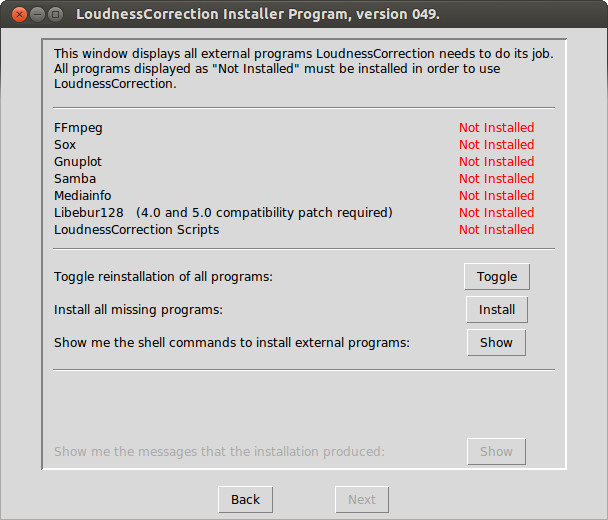
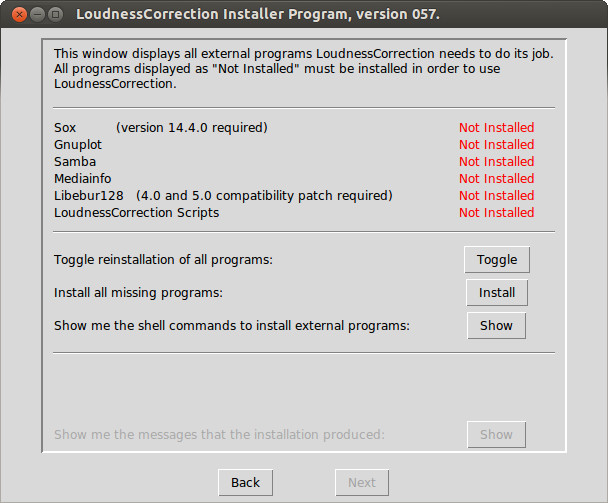
Documentation -------------- - Changed 4 installer pictures on user manual and made a small addition to the FAQ.

Changed region(s): [[0.0625, 0.2087, 0.9062, 0.7157], [0.0, 0.0, 0.9375, 0.1789], [0.0625, 0.835, 0.9375, 1.0]]

diff --git a/Documentation/FreeLCS_FAQ.html b/Documentation/FreeLCS_FAQ.html
@@ -133,15 +133,10 @@
     <ul>
       <li>Most audio post production is done in <strong>Wav</strong> format
         because it is very widely supported and can be used without paying
-        license fees for the use of the format (source:
-        <meta http-equiv="content-type" content="text/html; charset=utf-8">
-        <a href="http://www.digitalpreservation.gov/formats/fdd/fdd000025.shtml">http://www.digitalpreservation.gov/formats/fdd/fdd000025.shtml</a>,&nbsp;
-        <meta http-equiv="content-type" content="text/html; charset=utf-8">
+        license fees for the use of the format (source: <a href="http://www.digitalpreservation.gov/formats/fdd/fdd000025.shtml">http://www.digitalpreservation.gov/formats/fdd/fdd000025.shtml</a>,&nbsp;
         <a href="http://www.digitalpreservation.gov/formats/fdd/fdd000001.shtml">http://www.digitalpreservation.gov/formats/fdd/fdd000001.shtml</a>).
         FreeLCS supports wav and two royalty / patent free formats <strong>flac</strong>
-        and <strong>ogg </strong>(license:
-        <meta http-equiv="content-type" content="text/html; charset=utf-8">
-        <a href="http://flac.sourceforge.net/license.html">http://flac.sourceforge.net/license.html</a>).
+        and <strong>ogg </strong>(license: <a href="http://flac.sourceforge.net/license.html">http://flac.sourceforge.net/license.html</a>).
         If your post production is done in wav then you don't ever need to
         install FFmpeg.</li>
       <li>FFmpeg is a video and audio conversion tool that can be used to
@@ -181,7 +176,9 @@
         Stereo Mpeg 1 Layer 2 compressed audio from television
         transmission.&nbsp; The longest test files (with only 1 kHz sine wave)
         were 33 hours of Flac compressed 24 bit stereo audio and 388 hours of
-        ogg vorbis compresses stereo audio.<br>
+        ogg vorbis compresses stereo audio. The last one is 16 days of
+        continuous audio and the loudness corrected version was a 51 GB flac -
+        compressed file :)<br>
       </li>
     </ul>
     <br>

diff --git a/Documentation/FreeLCS_User_Manual.html b/Documentation/FreeLCS_User_Manual.html
@@ -441,7 +441,7 @@
         installation is going on. The installer shows messages on the bottom of
         the screen telling what it is doing at the moment.</li>
       <li>After all required programs are installed, the installer installs
-        FreeLCS programs into Ubuntu's system folders. <br>
+        FreeLCS scrips into Ubuntu's system folders. <br>
       </li>
     </ul>
     <p><br>
@@ -462,19 +462,28 @@
     <p><br>
     </p>
     <ul>
-      <li>The last window tells you that you can start loudness correction now
-        by typing the commands displayed in the window into a terminal window.
-        The easiest way to start loudness correction however is to restart the
-        computer.</li>
-      <li>Note that there is a deliberate delay for starting up loudness
-        correction and heartbeat checker after computer has booted up. This
-        makes sure all needed system services are up when our scripts run.<br>
-      </li>
+      <li>The next window shows how you can install FFmpeg if you need it.</li>
     </ul>
     <p><br>
     </p>
+    <p></p>
+    <ul>
+    </ul>
     <p><img src="Pictures/Installation-12.jpg"><br>
     </p>
+    <br>
+    <ul>
+      <li>The last window shows the terminal command to start LoudnessCorrection
+        immediately. The easiest way to start loudness correction however is to
+        restart the computer.</li>
+      <li>Note that there is a deliberate delay for starting up loudness
+        correction and heartbeat checker after computer has booted up. This
+        makes sure all needed system services are up when our scripts run.</li>
+    </ul>
+    <br>
+    <br>
+    <br>
+    <img alt="" src="Pictures/Installation-14.jpg"><br>
     <br>
     <br>
     <br>

diff --git a/installer.py b/installer.py
@@ -4399,7 +4399,7 @@ eigth_window_back_button.grid(column=2, row=1, padx=30, pady=10, sticky=(tkinter
 ###########################################################################################################
 
 # Create the label for the frame
-ninth_window_label_1 = tkinter.ttk.Label(ninth_frame_child_frame_1, wraplength=text_wrap_length_in_pixels, text="Everything was installed successfully :)\n\nLoudnessCorrection will be started when you boot up your computer, or you can start it now manually running the following commands:\n")
+ninth_window_label_1 = tkinter.ttk.Label(ninth_frame_child_frame_1, wraplength=text_wrap_length_in_pixels, text="Everything was installed successfully :)\n\nLoudnessCorrection will be started when you boot up your computer, or you can start it now manually running the following command:\n")
 ninth_window_label_1.grid(column=0, row=0, columnspan=4, pady=10, padx=10, sticky=(tkinter.N))
 
 loudness_correction_manual_startup_commands = "sudo   -b   /etc/init.d/loudnesscorrection_init_script   restart"
